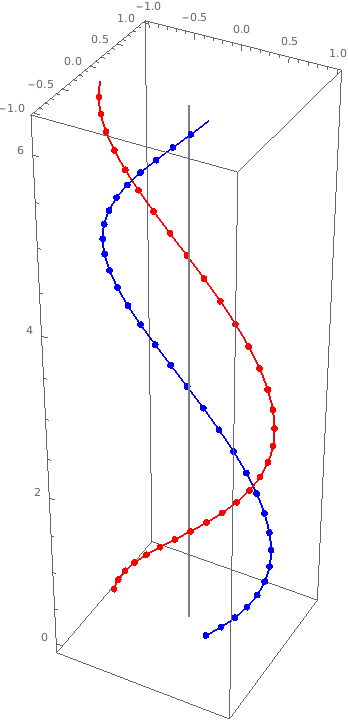
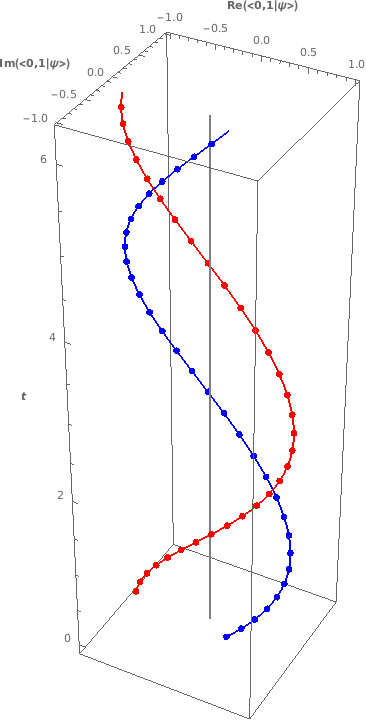
axis labels for pw32fit

diff --git a/tex/appendix/nb/wolfram/n-level.tex b/tex/appendix/nb/wolfram/n-level.tex
@@ -280,7 +280,13 @@ scatterPlot1 = ListPointPlot3D[scatterPoints1, PlotStyle->{Blue, PointSize[Large
 \end{figure}
 
 \begin{Verbatim}
-Show[zAxis, psi0plot,psi1plot,scatterPlot, scatterPlot1, ImageSize->Large]
+Show[zAxis, psi0plot,psi1plot,scatterPlot, scatterPlot1, ImageSize->Large,
+  AxesLabel->{
+    Style[Re["<0,1|\[Psi]>"], Bold],
+    Style[Im["<0,1|\[Psi]>"], Bold],
+    Style[t, Bold]
+  }
+]
 \end{Verbatim}
 \begin{figure}[!h]
   \centering
